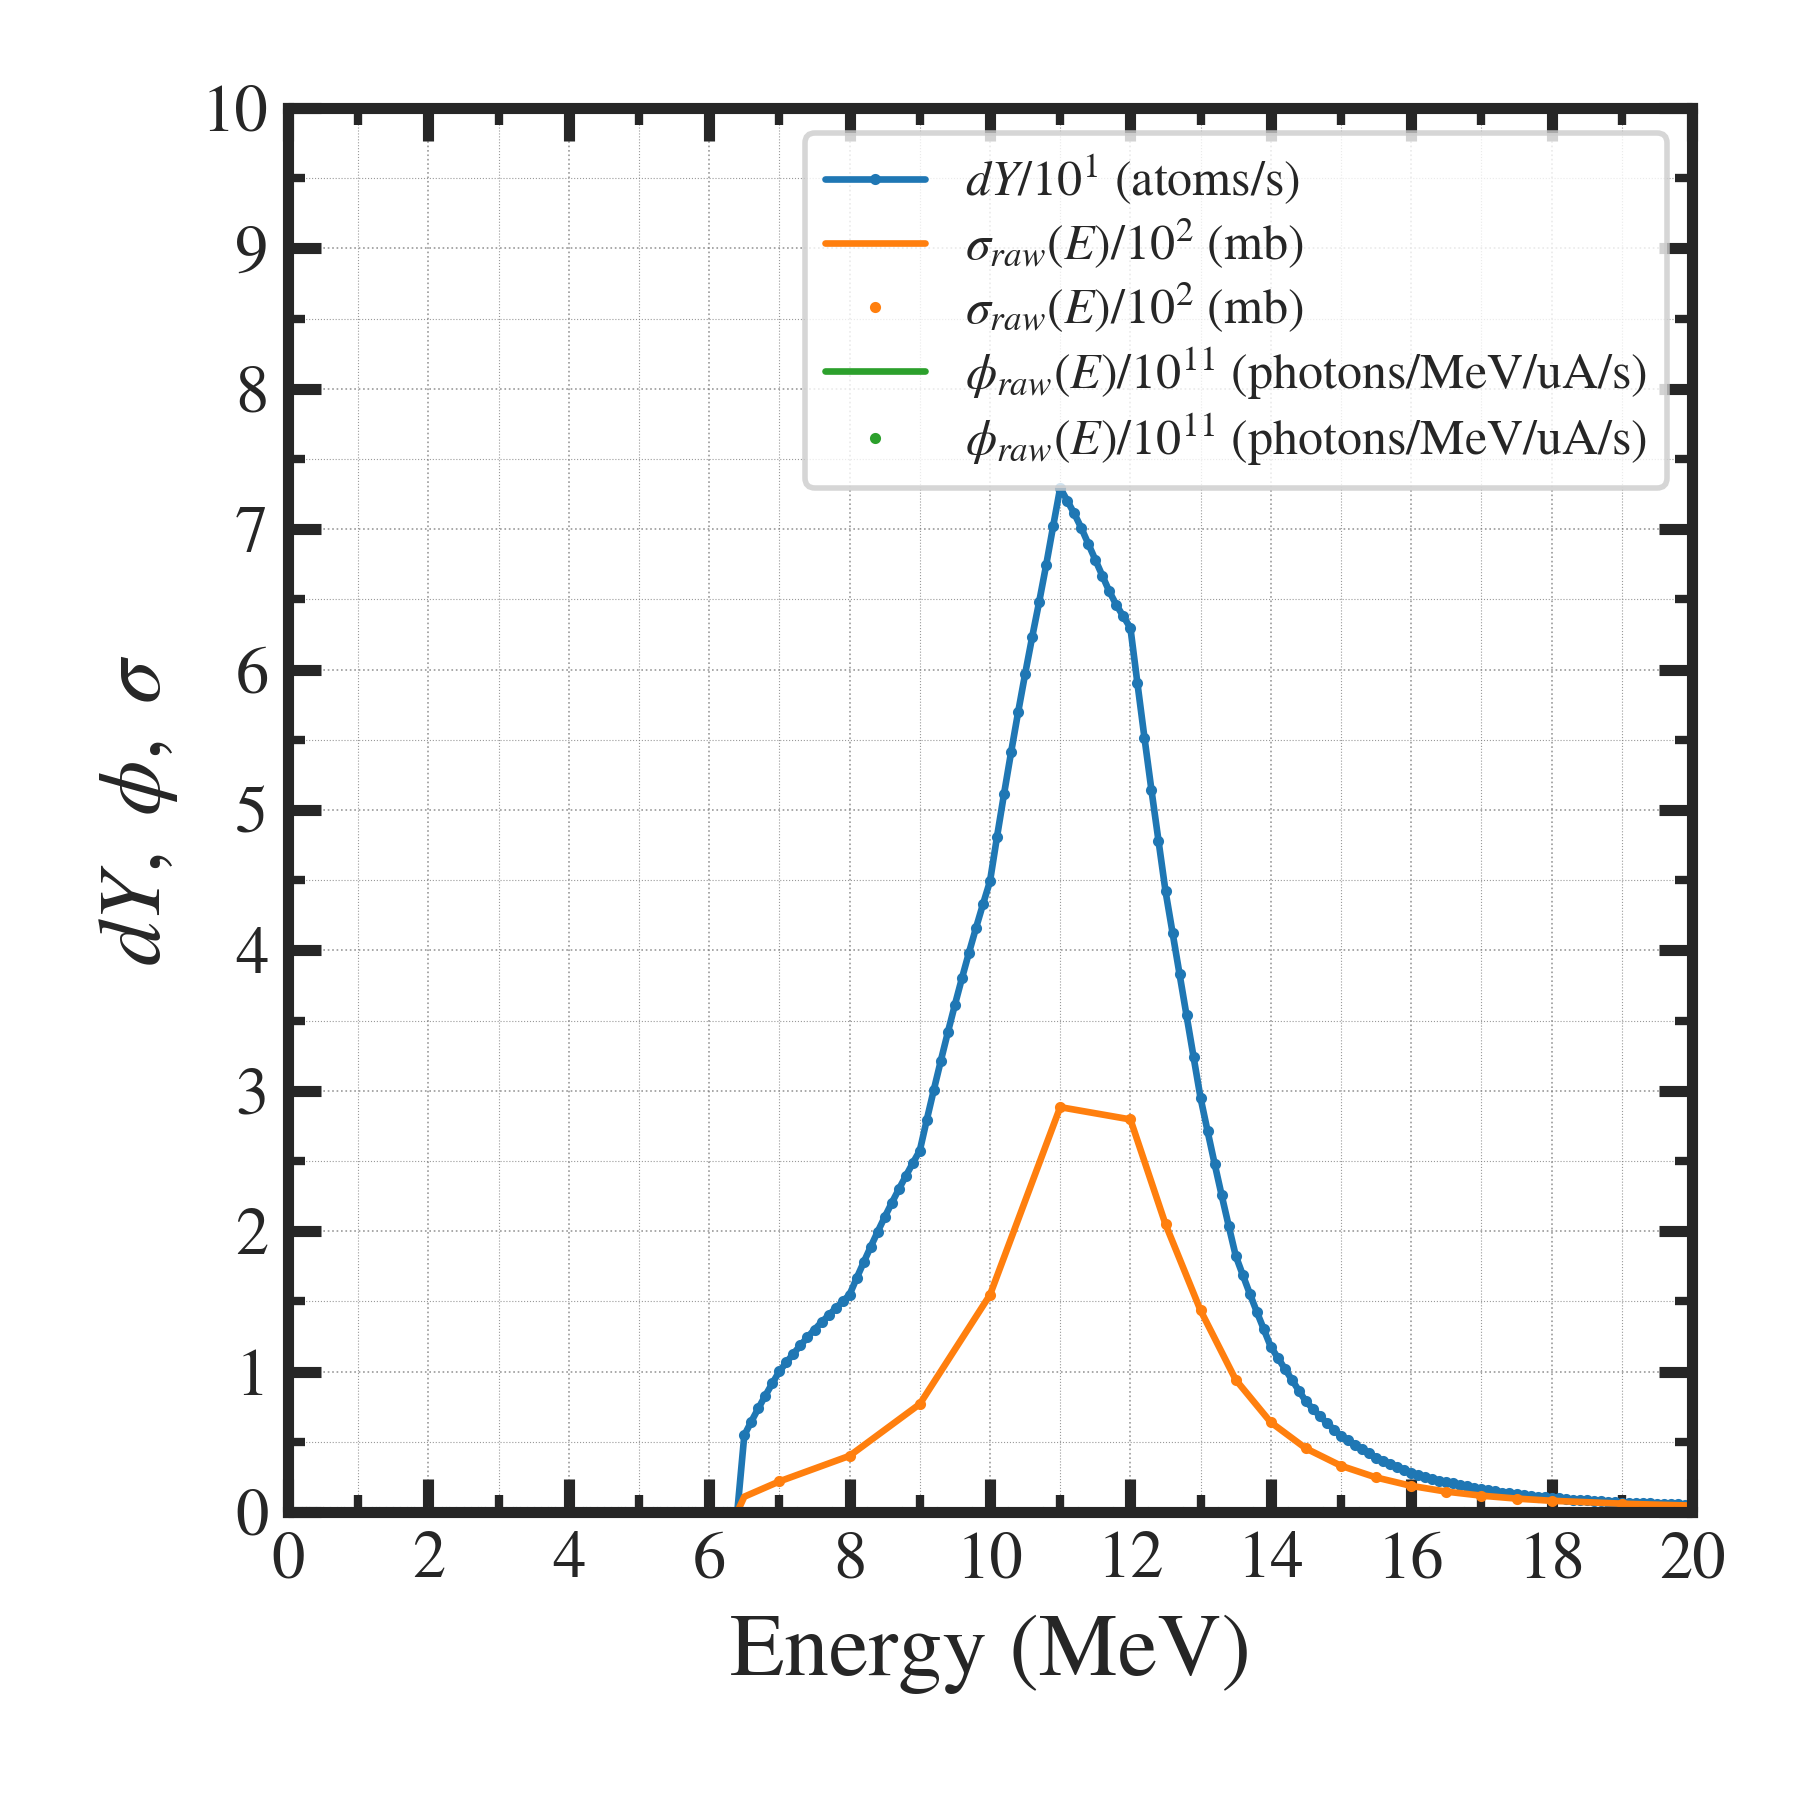
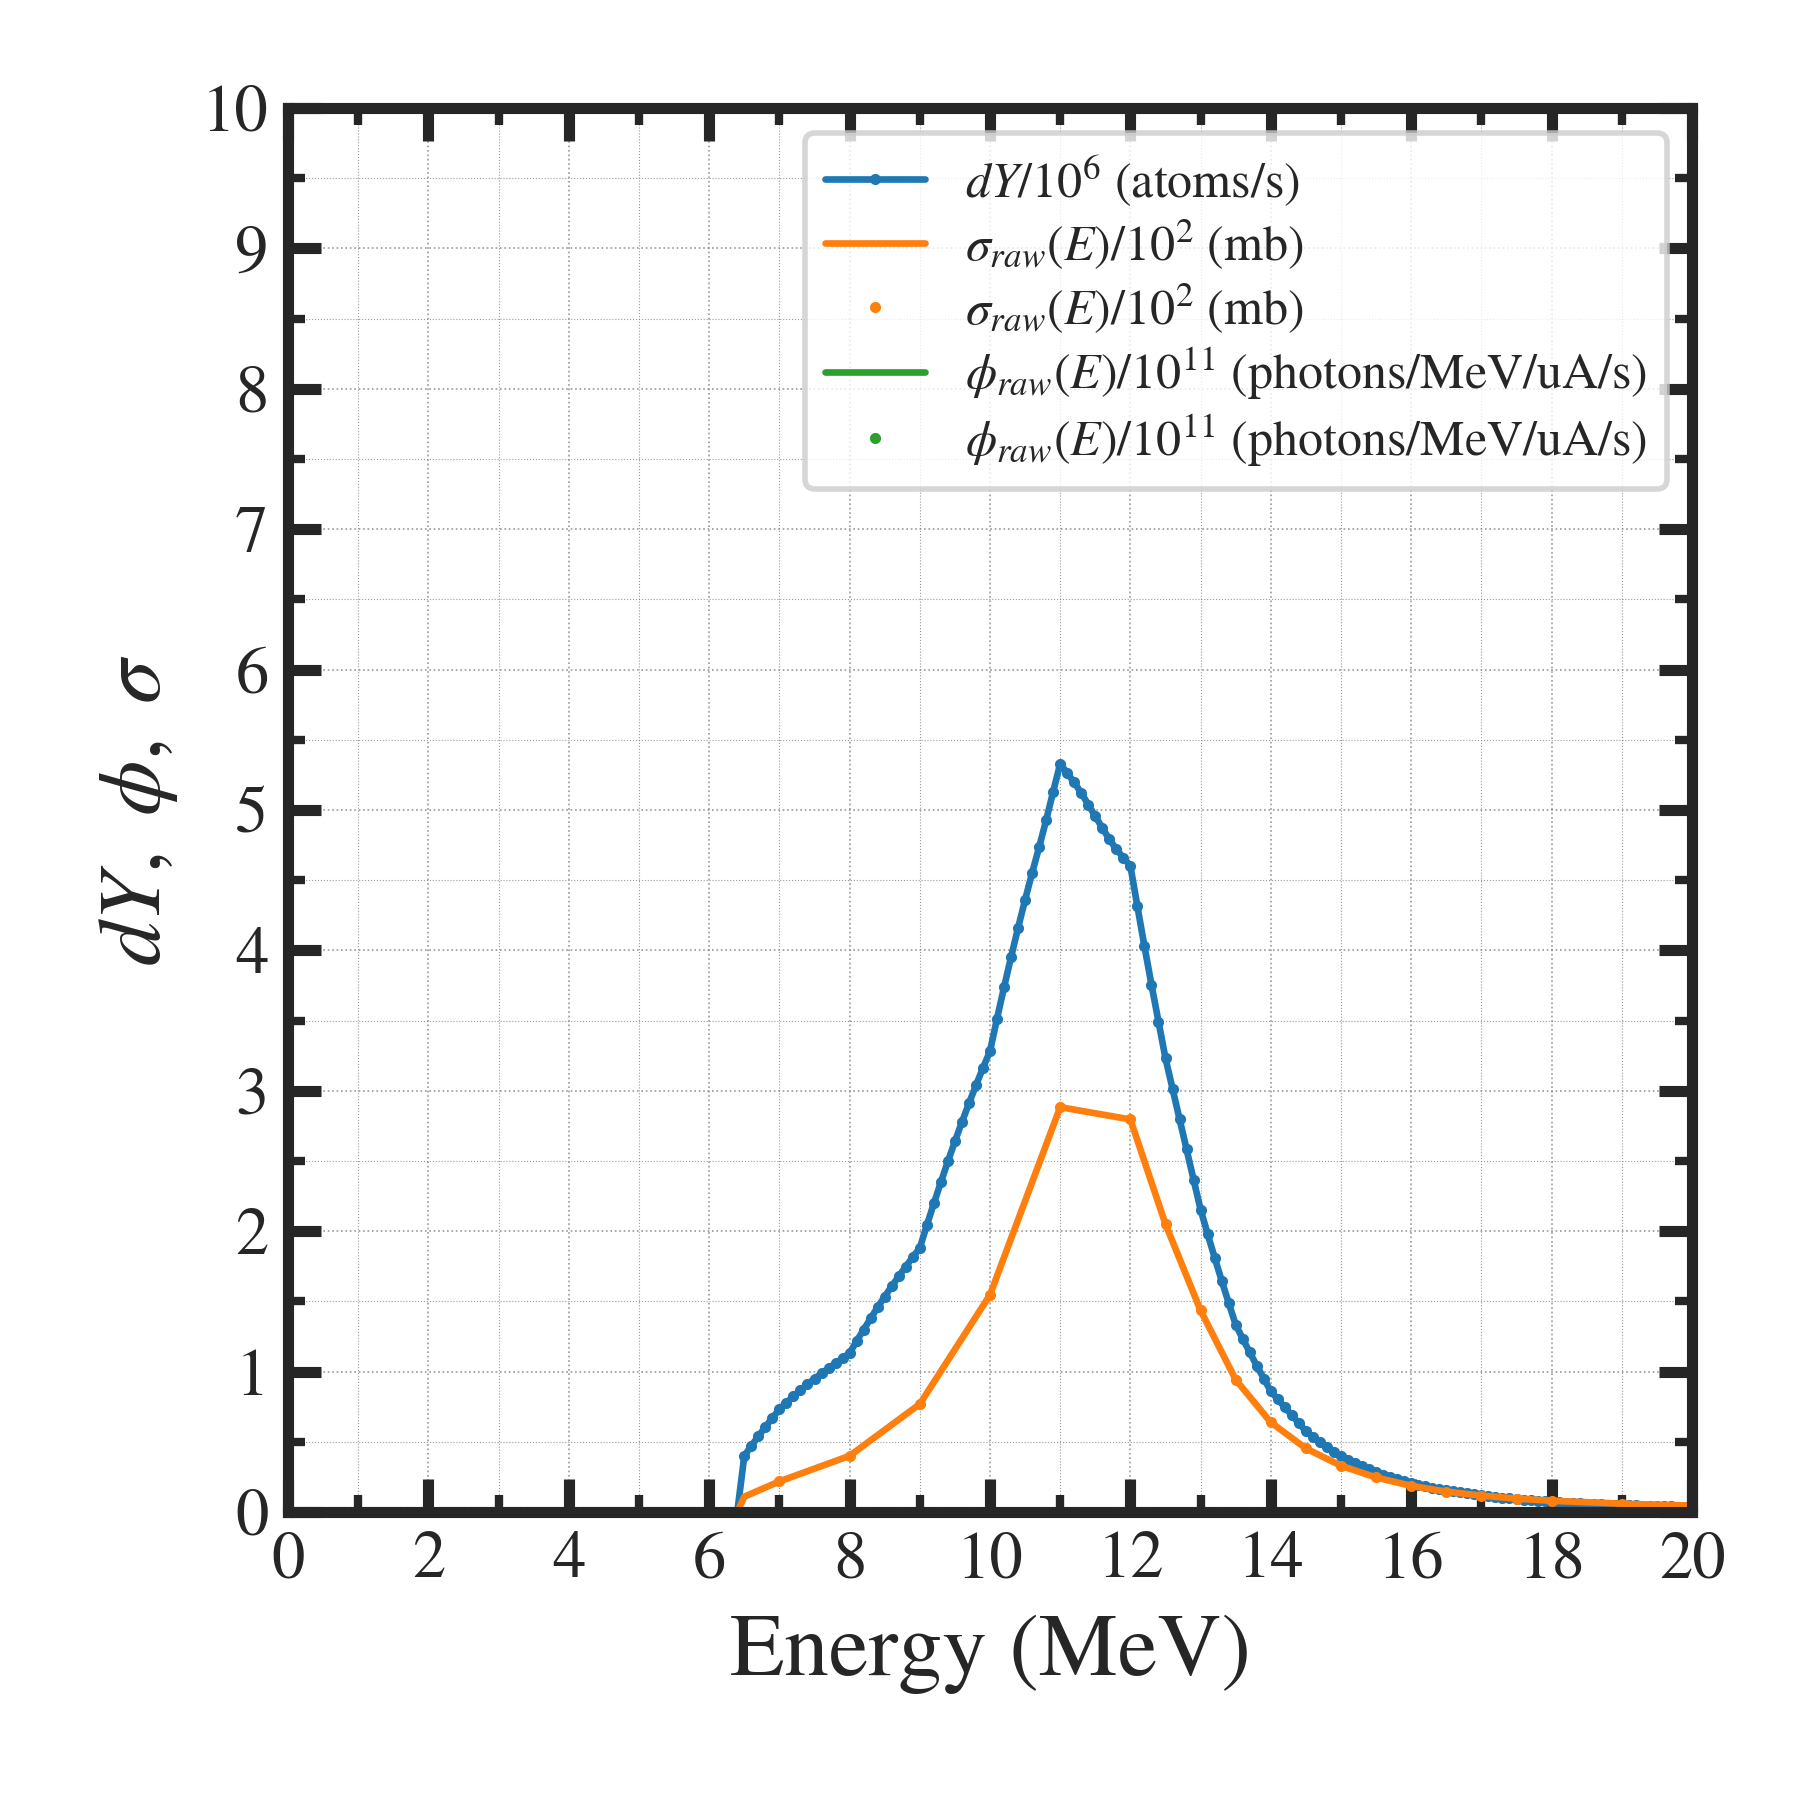
updated

diff --git a/pyt/estimate__RIproduction.py b/pyt/estimate__RIproduction.py
@@ -13,60 +13,58 @@ import nkUtilities.configSettings as cfs
 # ========================================================= #
 def estimate__RIproduction():
 
-    e_, pf_, xs_  =  0, 1, 1
-    mb2cm2        =  1.0e-27
-    configFile    =  "dat/system_config.json"
-    paramsFile    =  "dat/parameters.json"
+    e_, pf_, xs_ =  0, 1, 1
+    mb2cm2       = 1.0e-27
+    paramsFile   =  "dat/parameters.json"
     
     # ------------------------------------------------- #
     # --- [1] load parameters from file             --- #
     # ------------------------------------------------- #
     import nkUtilities.json__formulaParser as jso
-    config  = jso.json__formulaParser( inpFile=configFile )
-    params  = jso.json__formulaParser( inpFile=paramsFile )
+    params       = jso.json__formulaParser( inpFile=paramsFile )
     
     # ------------------------------------------------- #
     # --- [2] calculate parameters & define EAxis   --- #
     # ------------------------------------------------- #
     #  -- [2-1] energy axis                         --  #
-    EAxis  = np.linspace( params["integral.EAxis.min"], params["integral.EAxis.max"], \
-                          params["integral.EAxis.num"] )
+    EAxis        = np.linspace( params["integral.EAxis.min"], params["integral.EAxis.max"], \
+                                params["integral.EAxis.num"] )
     #  -- [2-2] calculate other parameters          --  #
-    params = calculate__parameters( params=params )
+    params       = calculate__parameters( params=params )
 
     # ------------------------------------------------- #
     # --- [3] load photon flux                      --- #
     # ------------------------------------------------- #
-    pf_fit_uA, pf_raw = load__photonFlux( EAxis=EAxis, params=params, config=config )
-    pf_fit            = params["photon.beam.current"] * pf_fit_uA
+    pf_fit_uA, pf_raw = load__photonFlux( EAxis=EAxis, params=params )
+    pf_fit            = params["photon.beam.current.use"] * pf_fit_uA
     
     # ------------------------------------------------- #
     # --- [4] load cross-section                    --- #
     # ------------------------------------------------- #
     import nkUtilities.load__pointFile as lpf
-    xs_raw     = lpf.load__pointFile( inpFile=params["xsection.filename"], returnType="point")
-    xs_fit_mb  = fit__forRIproduction( xD=xs_raw[:,e_], yD=xs_raw[:,xs_], \
-                                       xI=EAxis, mode=params["xsection.fit.method"], \
-                                       p0=params["xsection.fit.p0"], \
-                                       threshold=params["xsection.fit.Eth"] )
-    xs_fit     = mb2cm2 * xs_fit_mb
+    xs_raw    = lpf.load__pointFile( inpFile=params["xsection.filename"], returnType="point")
+    xs_fit_mb = fit__forRIproduction( xD=xs_raw[:,e_], yD=xs_raw[:,xs_], xI=EAxis, \
+                                      mode=params["xsection.fit.method"], \
+                                      p0=params["xsection.fit.p0"], \
+                                      threshold=params["xsection.fit.Eth"] )
+    xs_fit    = mb2cm2 * xs_fit_mb
     
     # ------------------------------------------------- #
     # --- [5] calculate dY(E)                       --- #
     # ------------------------------------------------- #
-    dYield       = params["target.tN_product"] * pf_fit * xs_fit
+    dYield    = params["target.tN_product"] * pf_fit * xs_fit
     
     # ------------------------------------------------- #
     # --- [6] integrate dY(E) with respect to E     --- #
     # ------------------------------------------------- #
     if ( params["integral.method"] == "simpson" ):
         Yield = itg.simpson( dYield, x=EAxis )
-    Nproduced = Yield * params["photon.beam.duration"] * 3600.0
-    Aproduced = Nproduced * params["product.lambda.1/s"]
+    Nproduced = params["photon.beam.duration"] * Yield * 3600.0
+    Aproduced = params["product.lambda.1/s"]   * Nproduced
     lam1,lam2 = params["product.lambda.1/s"], params["decayed.lambda.1/s"]
     t_max     = np.log( lam1/lam2 ) / ( lam1 - lam2 )
     t_max_d   = t_max / (3600*24.0)
-    ratio     = ( lam2/( lam2-lam1 ) )*( np.exp( -lam1*t_max ) - np.exp( -lam2*t_max ) ) * 100.0
+    ratio     = ( lam2/( lam2-lam1 ) )*( np.exp( -lam1*t_max ) - np.exp( -lam2*t_max ) )*100.0
     Adecayed  = ( ratio/100.0 ) * Aproduced
     results   = { "Yield":Yield, "Nproduced":Nproduced, "Aproduced":Aproduced, \
                   "t_max":t_max, "t_max_d":t_max_d, "ratio":ratio, "Adecayed":Adecayed }
@@ -90,7 +88,7 @@ def estimate__RIproduction():
 # ===  load photon flux                                 === #
 # ========================================================= #
 
-def load__photonFlux( EAxis=None, params=None, config=None, ):
+def load__photonFlux( EAxis=None, params=None ):
 
     e_, pf_ = 0, 1
     
@@ -101,14 +99,13 @@ def load__photonFlux( EAxis=None, params=None, config=None, ):
         import nkUtilities.load__pointFile as lpf
         pf_raw = lpf.load__pointFile( inpFile=params["photon.filename"], returnType="point" )
     elif ( params["photon.filetype"] == "phits-out"      ):
-        # expr_from  = r"^#\s*e\-lower"
-        # expr_to    = r"^\s*$"
+        # -- expr_from = r"^#\s*e\-lower",  expr_to = r"^\s*$"  -- #
         import nkUtilities.retrieveData__afterStatement as ras
         pf_raw = ras.retrieveData__afterStatement( inpFile=inpFile, outFile=outFile, \
-                                                   expr_from=config["expr_from"], \
-                                                   expr_to=config["expr_to"] )
+                                                   expr_from=params["expr_from"], \
+                                                   expr_to  =params["expr_to"]    )
         e_avg  = np.average( pf_raw[:,0:2], axis=1 )
-        p_dat  = np.copy( pf_raw[:,2] ) / params["photon.beam.current"]
+        p_dat  = np.copy   ( pf_raw[:,  2] ) / params["photon.beam.current.sim"]
         pf_raw = np.concatenate( [ e_avg[:,np.newaxis], p_dat[:,np.newaxis] ], axis=1 )
 
     # ------------------------------------------------- #
@@ -126,7 +123,10 @@ def load__photonFlux( EAxis=None, params=None, config=None, ):
 # ========================================================= #
 
 def fit__forRIproduction( xD=None, yD=None, xI=None, mode="linear", p0=None, threshold=None ):
-    
+
+    # ------------------------------------------------- #
+    # --- [1] fitting                               --- #
+    # ------------------------------------------------- #
     if   ( mode == "linear"   ):
         fitFunc = itp.interp1d( xD, yD, kind="linear", fill_value="extrapolate" )
         yI      = fitFunc( xI )
@@ -138,6 +138,10 @@ def fit__forRIproduction( xD=None, yD=None, xI=None, mode="linear", p0=None, thr
     else:
         print( "[estimate__RIproduction.py] undefined mode :: {} ".format( mode ) )
         sys.exit()
+        
+    # ------------------------------------------------- #
+    # --- [2] threshold                             --- #
+    # ------------------------------------------------- #
     if ( threshold is not None ):
         yI = np.where( xI > threshold, yI, 0.0 )
     return( yI )
@@ -161,13 +165,13 @@ def draw__figures( params=None, EAxis=None, pf_fit=None, xs_fit=None, \
     pf_fit_plot = pf_fit        / params["plot.photon.norm"]
     xs_raw_plot = xs_raw[:,xs_] / params["plot.xsection.norm"]
     pf_raw_plot = pf_raw[:,pf_] / params["plot.photon.norm"]
-    dY_plot     = dYield / params["plot.dYield.norm"]
+    dY_plot     = dYield        / params["plot.dYield.norm"]
     xs_norm_str = "10^{" + str( round( math.log10( params["plot.xsection.norm"] ) ) ) + "}"
     pf_norm_str = "10^{" + str( round( math.log10( params["plot.photon.norm"]   ) ) ) + "}"
     dY_norm_str = "10^{" + str( round( math.log10( params["plot.dYield.norm"]   ) ) ) + "}"
     label_xs    = "$\sigma_{fit}(E)/" + xs_norm_str + "\ \mathrm{(mb)}$"
     label_pf    = "$\phi_{fit}(E)/"   + pf_norm_str + "\ \mathrm{(photons/MeV/uA/s)}$"
-    label_dY    = "$dY/ "       + dY_norm_str + "\ \mathrm{(atoms/s)}$"
+    label_dY    = "$dY/ "             + dY_norm_str + "\ \mathrm{(atoms/s)}$"
     label_xs    = "$\sigma_{raw}(E)/" + xs_norm_str + "\ \mathrm{(mb)}$"
     label_pf    = "$\phi_{raw}(E)/"   + pf_norm_str + "\ \mathrm{(photons/MeV/uA/s)}$"
     
@@ -213,10 +217,11 @@ def draw__figures( params=None, EAxis=None, pf_fit=None, xs_fit=None, \
 # ========================================================= #
 # ===  write__results                                   === #
 # ========================================================= #
-def write__results( Data=None, outFile="dat/results.dat" ):
+def write__results( Data=None, outFile="dat/results.dat", stdout="minimum" ):
 
     if ( Data is None ): sys.exit( "[estimate__RIproduction.py] Data == ???" )
-    texts        = ""
+    text1        = "[paramters]\n"
+    text2        = "[results]\n"
     paramsFormat = "{0:>30} :: {1}\n"
     resultFormat = "{0:>30} :: {1:15.8e}   {2}\n"
     resultUnits  = { "Yield":"(atoms/s)", "Nproduced":"(atoms)", "Aproduced":"(Bq)", \
@@ -225,41 +230,22 @@ def write__results( Data=None, outFile="dat/results.dat" ):
     # ------------------------------------------------- #
     # --- [1] pack texts                            --- #
     # ------------------------------------------------- #
-    texts += "\n[paramters]\n"
     for key,val in Data["params"].items():
-        texts += paramsFormat.format( key, val )
-    texts += "\n[results]\n"
+        text1 += paramsFormat.format( key, val )
     for key,val in Data["results"].items():
-        texts += resultFormat.format( key, val, resultUnits[key] )
-    texts += "\n"
+        text2 += resultFormat.format( key, val, resultUnits[key] )
+    texts  = text1 + text2 + "\n"
     
     # ------------------------------------------------- #
     # --- [2] save and print texts                  --- #
     # ------------------------------------------------- #
-    print( texts )
+    if   ( stdout == "all" ):
+        print( texts )
+    elif ( stdout == "minimum" ):
+        print( "\n" + text2 + "\n" )
     with open( outFile, "w" ) as f:
         f.write( texts )
-
-
-# ========================================================= #
-# ===  unit__halfLifeTime_second                        === #
-# ========================================================= #
-def unit__halfLifeTime_second( unit=None, value=None ):
-    
-    if   ( unit.lower() == "y" ):
-        ret = value * 365*24*60*60.0
-    elif ( unit.lower() == "d" ):
-        ret = value *     24*60*60.0
-    elif ( unit.lower() == "h" ):
-        ret = value *        60*60.0
-    elif ( unit.lower() == "m" ):
-        ret = value *           60.0
-    elif ( unit.lower() == "s" ):
-        ret = value
-    else:
-        print( "[estimate__RIproduction.py] unknown unit :: {} ".format( unit ) )
-        sys.exit()
-    return( ret )
+    print( "[estimate__RIproduction.py] results is saved in {}\n".format( outFile ) )
 
 
 # ========================================================= #
@@ -267,8 +253,9 @@ def unit__halfLifeTime_second( unit=None, value=None ):
 # ========================================================= #
 def calculate__parameters( params=None ):
 
-    N_Avogadro = 6.02e23
-    mm2cm      = 0.1
+    N_Avogadro   = 6.02e23
+    mm2cm        = 0.1
+    timeUnitDict = { "s":1.0, "m":60.0, "h":3600.0, "d":86400.0, "y":31536000.0 }
     
     # ------------------------------------------------- #
     # --- [1] arguments                             --- #
@@ -279,12 +266,10 @@ def calculate__parameters( params=None ):
     # --- [2] calculate half-life time & lambda     --- #
     # ------------------------------------------------- #
     #  -- [2-1] half-life time of nuclide           --  #
-    params["target.halflife.value"]  = unit__halfLifeTime_second( \
-        unit=params["target.halflife.unit"] , value=params["target.halflife.value"]  )
-    params["product.halflife.value"] = unit__halfLifeTime_second( \
-        unit=params["product.halflife.unit"], value=params["product.halflife.value"] )
-    params["decayed.halflife.value"] = unit__halfLifeTime_second( \
-        unit=params["decayed.halflife.unit"], value=params["decayed.halflife.value"] )
+    keys   = [ "target.halflife", "product.halflife", "decayed.halflife" ]
+    for key in keys:
+        params[ key+".value" ] = params[ key+".value" ] * timeUnitDict[ params[ key +".unit"] ]
+
     #  -- [2-2] decay constant lambda               --  #
     params["target.lambda.1/s"]  = np.log(2.0) / params["target.halflife.value"]
     params["product.lambda.1/s"] = np.log(2.0) / params["product.halflife.value"]
@@ -296,7 +281,7 @@ def calculate__parameters( params=None ):
     if   ( params["target.area.type"].lower() == "direct"   ):
         params["target.area.cm2"] = params["target.area.direct.cm2"]
     elif ( params["target.area.type"].lower() == "cylinder" ):
-        params["target.area.cm2"] = 0.25*np.pi * ( mm2cm * params["target.area.diameter.mm"] )**2
+        params["target.area.cm2"] = 0.25*np.pi*( mm2cm*params["target.area.diameter.mm"] )**2
 
     # ------------------------------------------------- #
     # --- [4] thickness x atom density              --- #
